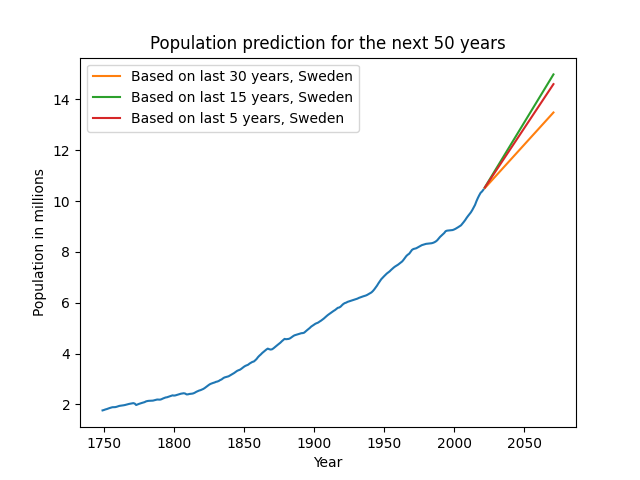
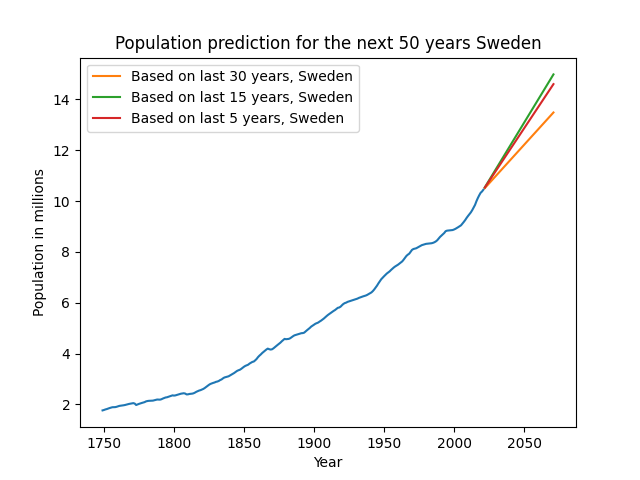
better titles

Changed region(s): [[0.1562, 0.0625, 0.8438, 0.125]]

diff --git a/lesning_oop.py b/lesning_oop.py
@@ -68,18 +68,21 @@ class Placeholder:
     def plot_prediction(self, goal, populations, names):
         match populations:
             case 'uno':
+                title = names[0]
                 plt.plot(self.x, self.y)
                 plt.plot(self.x_prediction, self.pred_30, label=f'Based on last 30 years, {names[0]}')
                 plt.plot(self.x_prediction, self.pred_15, label=f'Based on last 15 years, {names[0]}')
                 plt.plot(self.x_prediction, self.pred_5, label=f'Based on last 5 years, {names[0]}')
 
             case 'dos':
+                title = names[1]
                 plt.plot(self.t, self.k)
                 plt.plot(self.x_prediction, self.pred_30_2, label=f'Based on last 30 years, {names[1]}')
                 plt.plot(self.x_prediction, self.pred_15_2, label=f'Based on last 15 years, {names[1]}')
                 plt.plot(self.x_prediction, self.pred_5_2, label=f'Based on last 5 years, {names[1]}')
             
             case 'both':
+                title = names[0] + ' and ' + names[1]
                 plt.plot(self.x, self.y, label=names[0])
                 plt.plot(self.t, self.k, label=names[1])
                 plt.plot(self.x_prediction, self.pred_30, label=f'Based on last 30 years, {names[0]}')
@@ -88,7 +91,7 @@ class Placeholder:
                 plt.plot(self.x_prediction, self.pred_15_2, label=f'Based on last 15 years, {names[1]}')
                 plt.plot(self.x_prediction, self.pred_5, label=f'Based on last 5 years, {names[0]}')
                 plt.plot(self.x_prediction, self.pred_5_2, label=f'Based on last 5 years, {names[1]}')
-        plt.title('Population prediction for the next 50 years')
+        plt.title(f'Population prediction for the next 50 years {title}')
         plt.xlabel('Year')
         plt.ylabel('Population in millions')
         plt.legend()
